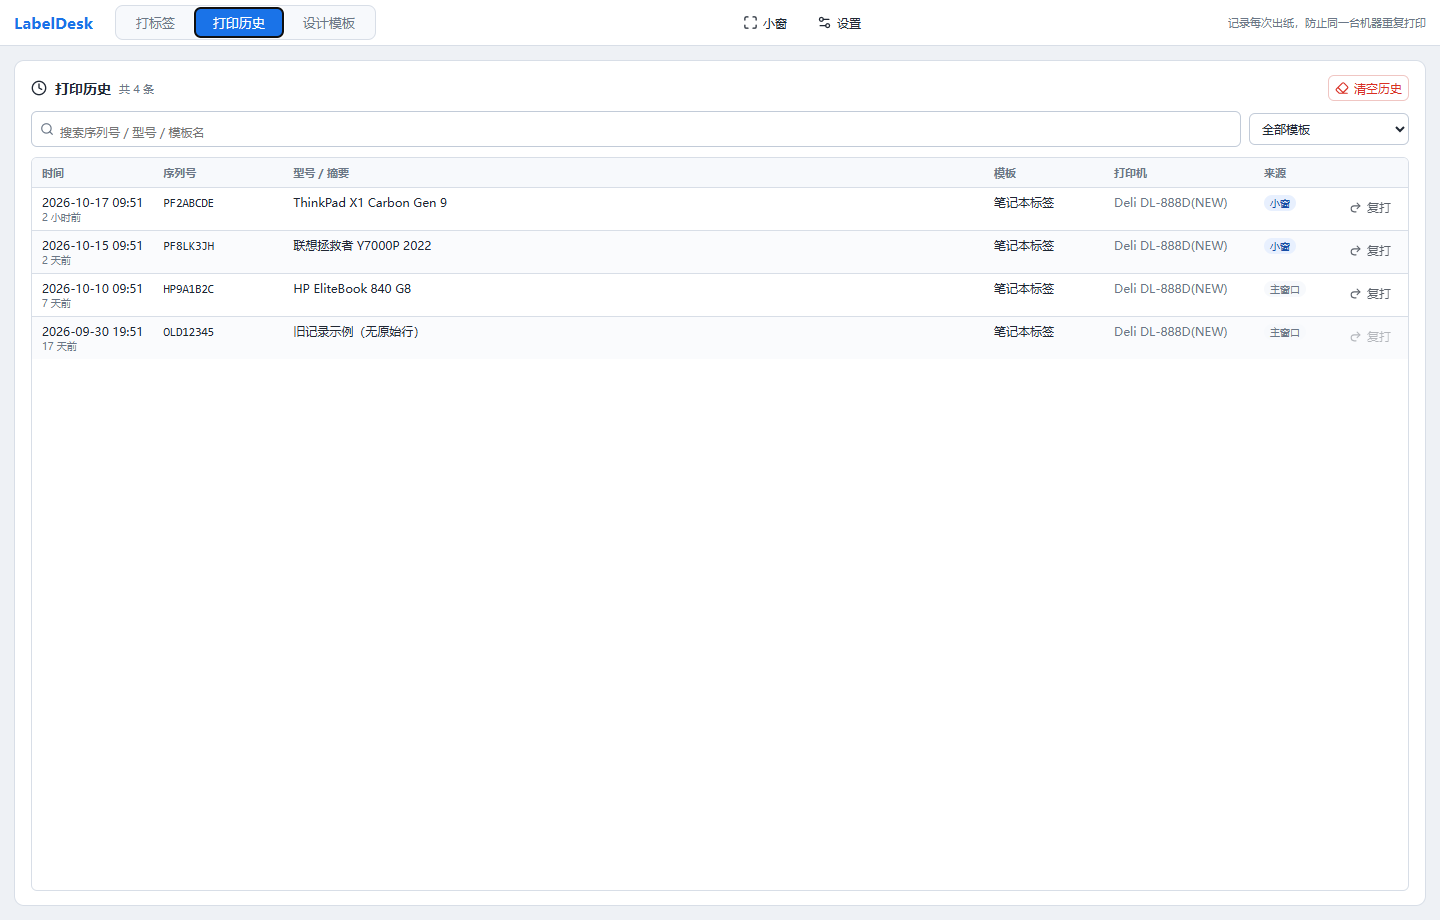
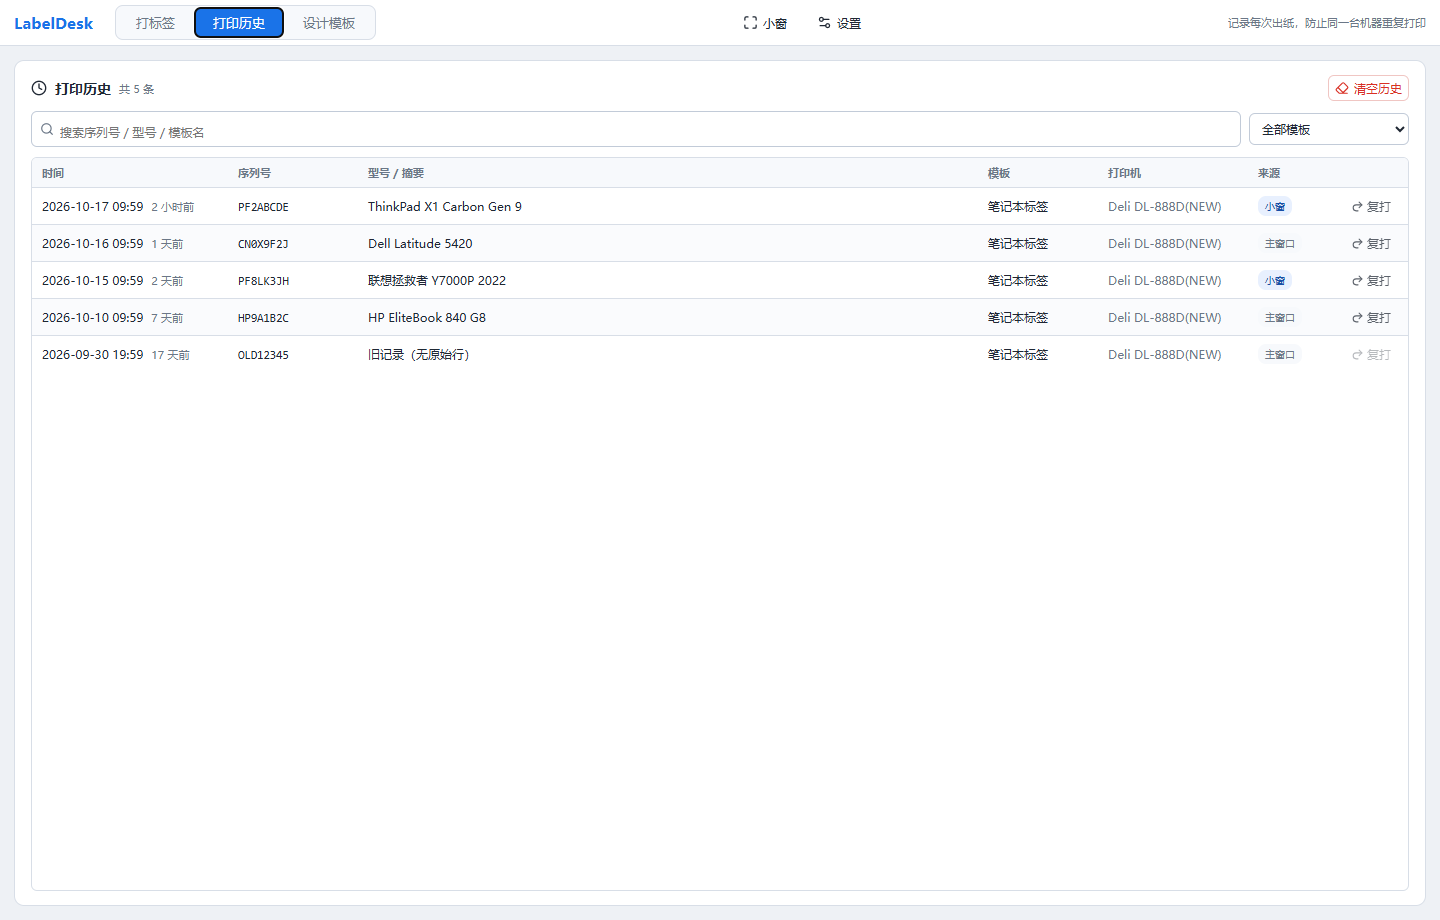
fix(ui): 打印历史表格各列垂直对齐
原来时间列是两行（日期 / 相隔时间），把行高撑到 46px，
而其它单元格是 vertical-align: top，于是每列文字落在不同的水平线上；
「来源」标签与「复打」按钮也不在同一基线上。

改动：
- 时间列改成单行：`2026-10-17 09:59` + 浅色 `2 小时前`（margin-left 8px）
- tbody td 统一 `vertical-align: middle` + `white-space: nowrap`
- 来源标签 `line-height: 16px; padding: 2px 7px`，复打按钮
  `inline-flex; align-items:center; height:22px`，两者盒高一致才能中线对齐
- 时间列宽 112 → 196px 容纳单行内容

实测（像素测量，不靠目测）：同一行内 7 列（时间/序列号/型号/模板/打印机/
来源/复打）文字垂直中心最大偏差 0.5–1 px，那 1px 是字形上下延伸差异
（如 Latitude 的 y 有下伸），不是错位。来源与复打的中心线完全一致
（66.5 / 66.5）。

窄屏复核：900px 宽下打印机列自动隐藏，其余列仍对齐、无溢出。

行高从 46px 降到 37px，同样高度能多看几行。

Changed region(s): [[0.0312, 0.1826, 0.3438, 0.3957], [0.6875, 0.1826, 0.9062, 0.3957], [0.9375, 0.213, 0.9688, 0.3957]]

diff --git a/src/styles.css b/src/styles.css
@@ -1903,9 +1903,11 @@ body.quick-window {
 }
 
 .history-table tbody td {
-  padding: 6px 10px;
+  padding: 7px 10px;
   border-bottom: 1px solid var(--border);
-  vertical-align: top;
+  /* 整行单行显示：所有单元格中线对齐，来源标签与复打按钮才会落在同一水平线上 */
+  vertical-align: middle;
+  white-space: nowrap;
 }
 
 .history-table tbody tr:nth-child(even) {
@@ -1921,16 +1923,17 @@ body.quick-window {
 }
 
 .history-table .col-time {
-  width: 112px;
-  white-space: nowrap;
+  width: 196px;
 }
 
 .history-time {
   font-variant-numeric: tabular-nums;
 }
 
+/* 「2 小时前」跟在日期后面，同一基线，用浅色弱化 */
 .history-ago {
-  font-size: 10px;
+  margin-left: 8px;
+  font-size: 11px;
   color: var(--text-dim);
 }
 
@@ -1959,7 +1962,15 @@ body.quick-window {
 }
 
 .history-table .col-src {
-  width: 72px;
+  width: 78px;
+}
+
+/* 来源标签与复打按钮用同样的盒模型高度，才能中线对齐 */
+.history-table .tag {
+  display: inline-block;
+  line-height: 16px;
+  padding: 2px 7px;
+  vertical-align: middle;
 }
 
 .history-summary-cell {
@@ -2109,10 +2120,15 @@ body.quick-window {
 }
 
 .reprint-button {
-  padding: 2px 8px;
+  display: inline-flex;
+  align-items: center;
+  gap: 3px;
+  height: 22px;
+  padding: 0 8px;
   font-size: 11px;
   opacity: 0.72;
   white-space: nowrap;
+  vertical-align: middle;
 }
 
 .history-table tbody tr:hover .reprint-button:not(:disabled) {

diff --git a/src/components/HistoryPanel.tsx b/src/components/HistoryPanel.tsx
@@ -182,8 +182,8 @@ export function HistoryPanel({ onReprint }: Props): JSX.Element {
               {shown.map((r, i) => (
                 <tr key={`${r.atMs}-${i}`}>
                   <td className="col-time">
-                    <div className="history-time">{formatAt(r.atMs)}</div>
-                    <div className="history-ago">{formatHoursAgo(hoursAgo(r.atMs))}</div>
+                    <span className="history-time">{formatAt(r.atMs)}</span>
+                    <span className="history-ago">{formatHoursAgo(hoursAgo(r.atMs))}</span>
                   </td>
                   <td className="col-serial">
                     <code>{r.serial || "—"}</code>
